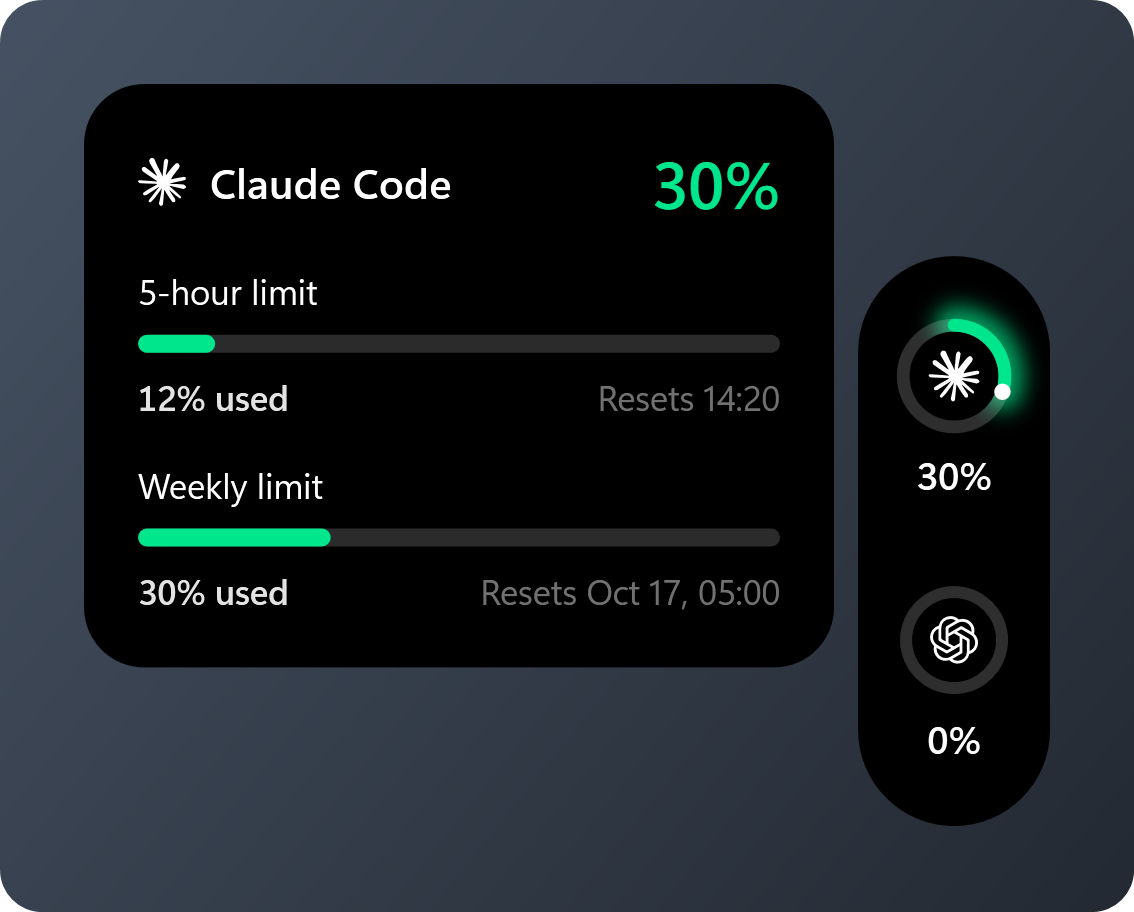
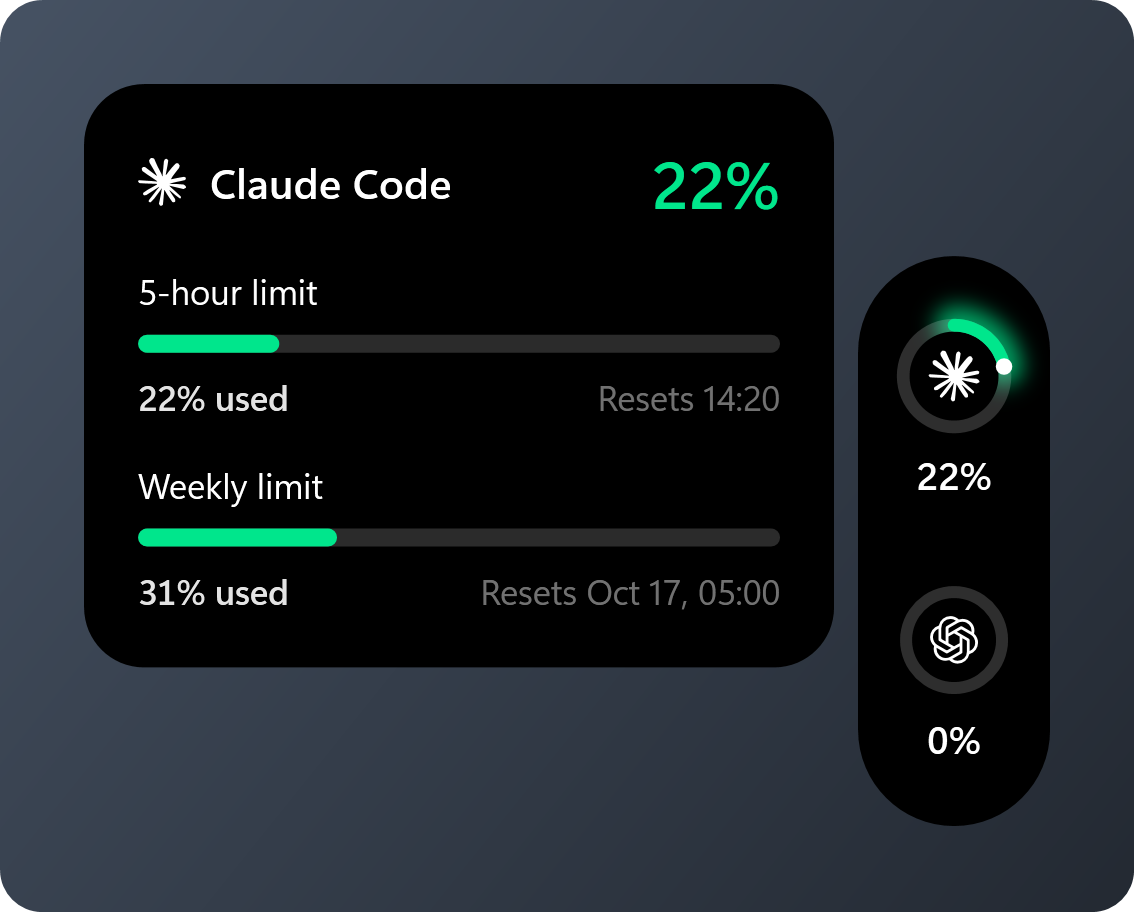
Show the 5-hour limit in the ring

diff --git a/tests/OrbMet.Core.Tests/UsageSelectionTests.cs b/tests/OrbMet.Core.Tests/UsageSelectionTests.cs
@@ -26,6 +26,47 @@ public class UsageSelectionTests
     }
 
     [Fact]
+    public void ShowsTheFiveHourWindowEvenWhenTheWeeklyOneIsFuller()
+    {
+        var snapshot = Snapshot(
+            new UsageWindow { Id = "seven_day", UsedPercent = 30, DurationSeconds = 7 * 24 * 60 * 60 },
+            new UsageWindow { Id = "five_hour", UsedPercent = 15, DurationSeconds = 5 * 60 * 60 });
+
+        Assert.Equal("five_hour", UsageSelection.SelectRingWindow(snapshot)!.Id);
+    }
+
+    [Fact]
+    public void ShowsTheFiveHourWindowEvenWhenTheWeeklyOneIsSpent()
+    {
+        var snapshot = Snapshot(
+            new UsageWindow { Id = "seven_day", UsedPercent = 100, DurationSeconds = 7 * 24 * 60 * 60 },
+            new UsageWindow { Id = "five_hour", UsedPercent = 10, DurationSeconds = 5 * 60 * 60 });
+
+        Assert.Equal("five_hour", UsageSelection.SelectRingWindow(snapshot)!.Id);
+    }
+
+    [Fact]
+    public void FallsBackToTheHighestWhenTheFiveHourWindowHasNoValue()
+    {
+        var snapshot = Snapshot(
+            new UsageWindow { Id = "five_hour", UsedPercent = null, DurationSeconds = 5 * 60 * 60 },
+            new UsageWindow { Id = "seven_day", UsedPercent = 30, DurationSeconds = 7 * 24 * 60 * 60 },
+            new UsageWindow { Id = "monthly", UsedPercent = 12 });
+
+        Assert.Equal("seven_day", UsageSelection.SelectRingWindow(snapshot)!.Id);
+    }
+
+    [Fact]
+    public void AGroupedFiveHourWindowDoesNotTakeTheRing()
+    {
+        var snapshot = Snapshot(
+            new UsageWindow { Id = "weekly", UsedPercent = 20, DurationSeconds = 7 * 24 * 60 * 60 },
+            new UsageWindow { Id = "opus", GroupId = "opus", ScopeLabel = "Opus", UsedPercent = 5, DurationSeconds = 5 * 60 * 60 });
+
+        Assert.Equal("weekly", UsageSelection.SelectRingWindow(snapshot)!.Id);
+    }
+
+    [Fact]
     public void IgnoresWindowsWithoutAReportedPercentage()
     {
         var snapshot = Snapshot(

diff --git a/src/OrbMet.Core/Usage/UsageSelection.cs b/src/OrbMet.Core/Usage/UsageSelection.cs
@@ -8,10 +8,15 @@ namespace OrbMet.Core.Usage;
 /// </summary>
 public static class UsageSelection
 {
+    /// <summary>The window people pace their work by, shown first when there is one.</summary>
+    public const long FiveHourSeconds = 5 * 60 * 60;
+
     /// <summary>
-    /// Picks the window shown in the usage ring: the account-wide window with
-    /// the highest used percentage, or the highest grouped window when no
-    /// account-wide window carries a value. Returns null when nothing is known.
+    /// Picks the window shown in the usage ring. The candidates are the
+    /// account-wide windows with a value, or the grouped ones when there are
+    /// none. Among them a 5-hour window wins even if a longer one is fuller
+    /// (the card lists every window); otherwise the highest used percentage.
+    /// Returns null when nothing is known.
     /// </summary>
     public static UsageWindow? SelectRingWindow(ProviderSnapshot snapshot)
     {
@@ -32,7 +37,13 @@ public static class UsageSelection
 
         var candidates = accountWide.Count > 0 ? accountWide : withValue;
 
-        return candidates
+        // Codex reports every window under a limit group, so the 5-hour
+        // window is looked for among the same candidates, not only account-wide.
+        var fiveHour = candidates
+            .Where(window => window.DurationSeconds == FiveHourSeconds)
+            .ToList();
+
+        return (fiveHour.Count > 0 ? fiveHour : candidates)
             .OrderByDescending(window => window.UsedPercent)
             .ThenBy(window => window.Id, StringComparer.Ordinal)
             .First();

diff --git a/tests/OrbMet.Core.Tests/CodexUsageNormalizerTests.cs b/tests/OrbMet.Core.Tests/CodexUsageNormalizerTests.cs
@@ -183,4 +183,17 @@ public class CodexUsageNormalizerTests
         Assert.NotNull(selected);
         Assert.Equal("codex.secondary", selected!.Id);
     }
+
+    [Fact]
+    public void SelectionPicksTheFiveHourWindowWhenCodexReportsOne()
+    {
+        var snapshot = Normalize(
+            "{\"rateLimits\":{\"limitId\":\"codex\"," +
+            "\"primary\":{\"usedPercent\":30,\"windowDurationMins\":300}," +
+            "\"secondary\":{\"usedPercent\":70,\"windowDurationMins\":10080}}}");
+
+        var selected = UsageSelection.SelectRingWindow(snapshot);
+
+        Assert.Equal("codex.primary", selected!.Id);
+    }
 }

diff --git a/README.md b/README.md
@@ -12,7 +12,7 @@ starts to matter: green below 50%, yellow below 75%, red above.
 
 ## Features
 
-- One ring per provider, with the percentage the provider reports.
+- One ring per provider showing its 5-hour limit, as the provider reports it.
 - Hover a ring to see every limit it reports (5-hour, weekly, per model),
   how much of each is used and when it resets.
 - Click a ring to refresh it.
